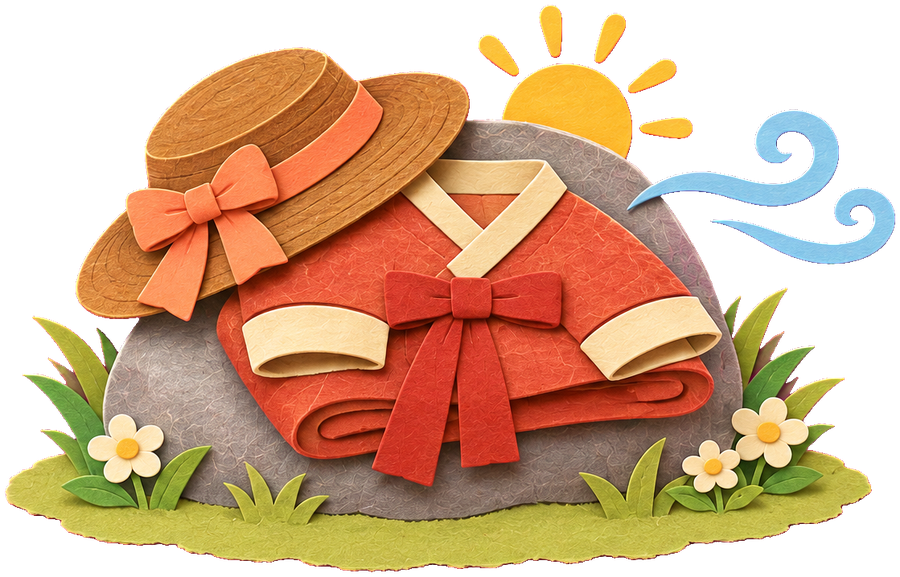
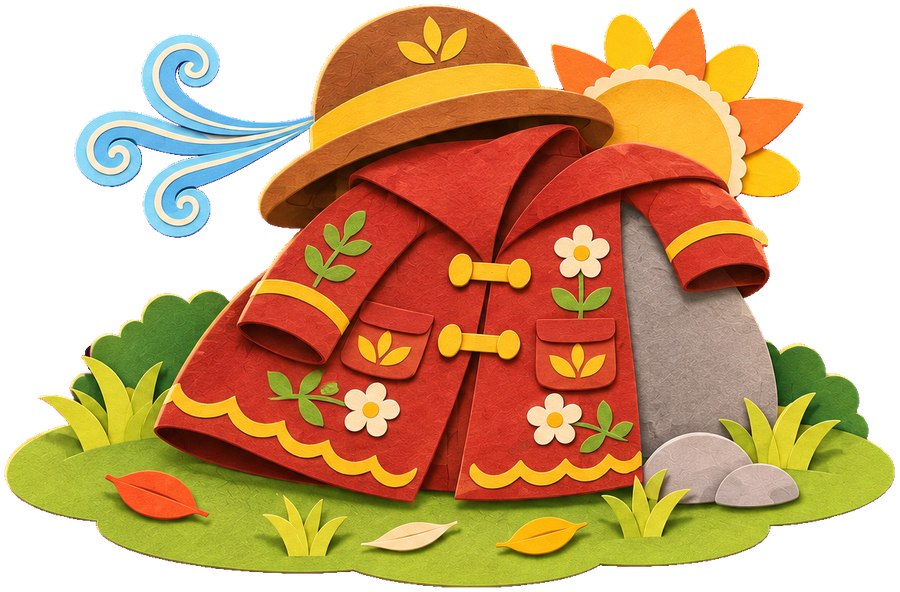
covers round 3: quicker ending fold, the cast back on screen for the curtain call, sunmoon back cover + sun_wind spot redrawn
- The ending re-times the fold (outside-in within 1.7 s, page turn once all is flat); the curtain shot eases in
  during the hold; sun_wind's traveller walks back for his bow.
- sunmoon back cover: sun / moon with the children's faces over the dusk cottage, nobody in the field; sun_wind
  title-page spot with the traveller's real coat.
- --end-choice=replay|other records the end tabs; the shelf stays when a story sends the reader there.

Claude-Session: https://claude.ai/code/session_01BY9NwcYaGBVoJkDe4jJ2J6

diff --git a/tools/art/cover_jobs.py b/tools/art/cover_jobs.py
@@ -221,6 +221,25 @@ ROLL = [
 ]
 JOBS += ROLL
 
+# ---- round 4 (coordinator review): the sun and moon WITH the children's faces over the cottage (the kids became
+# them; nobody sits in the field), and the sun_wind vignette's coat matching the traveller's real coat
+JOBS += [
+    back("back_sm_art_v2", "cover_sm_art.png", "Quiet dusk after the story: high in the sky on the left a golden paper "
+         "SUN whose face is the little SISTER's face (reference 2: her face and pigtail buns inside the sun's rays) and "
+         "on the right a pale cream paper MOON whose face is the BROTHER's face (reference 3: his bowl-cut face inside "
+         "the moon), both smiling gently down. Below them the little thatched cottage from the front cover, peaceful, "
+         "no smoke, no people; in front of it a field of tall red-brown SORGHUM stalks (one stalk bent). NO children, "
+         "NO people, NO tiger anywhere on the ground. Soft blue-indigo dusk sky with a few first stars.",
+         [RF + "ref_sm_sun_girl.png", RF + "ref_sm_moon_boy.png"]),
+    {"id": "spot_sw_v2", "kind": "bg", "aspect": "square if possible, but ANY size the tool returns is fine; save it as-is",
+     "out": RAW + "spot_sw_v2.png", "refs": [RAW + "cover_sw_art_paper.png", MAT_REF],
+     "prompt": SPOT + "SUBJECT: the TRAVELLER's own long RUST-RED COAT from the first reference (deep rust-red with "
+     "cream flower trims, mustard toggle buttons, a cream hem band) folded over a round grey rock in the grass, his "
+     "BROWN STRAW HAT with a mustard band and a little leaf motif lying on top (exactly as in the first reference), a "
+     "small golden paper sun peeking over the rock and a curly pale-blue paper wind swirl beside it. The coat is a "
+     "European-style long coat, NOT a Korean hanbok jacket, NOT pink. Do not draw the boy."},
+]
+
 
 if __name__ == "__main__":
     out = os.path.join(HERE, "cover_jobs.json")

diff --git a/artifacts/game-progress.md b/artifacts/game-progress.md
@@ -1863,3 +1863,37 @@ Deliver: Vite build + run instructions, 30 s gameplay capture, final side-by-sid
   - Regression (no movie, --fixed-fps 30): sun_wind 219.7 s, three_pigs 310.4 s, witch_candy 447.6 s, sunmoon 396.8 s —
     STORY_DONE missing_audio=[] missing_sound=[], CHECK_LINES OK for all four (VOICE_DUP high only in these
     faster-than-realtime runs, as in phase 1).
+
+## 2026-11-22 — camera: no jerky viewpoint jumps (user: "모든 동화 마찬가진데 시점이 뚝뚝 끊기는거 별로에요. 사탕마녀도 그렇고 썬문도 그러네")
+  - Measured first: StoryRunner camera check — per frame, the stage camera's view motion (turn + shift seen from the
+    focus distance + half the fov change); `CAM_JUMP` = a frame moving > 3°, `CAM_JERK` = a one-frame velocity change
+    > 20°/s; page turns / cover / other cameras / shakes not counted; summary `CAM_JUMP=<n> CAM_JERK=<n>`.
+  - Before (movie runs, artifacts/camera/before/*.log): sun_wind 5/6, three_pigs 19/23, witch_candy 40/30, sunmoon 32/19.
+  - Causes: every shot parameter and the focus chased its goal exponentially (full speed on the first frame, a new
+    shot changed the speed at once); cam `from` snapped the rig mid-page (the opening cranes cut after the page had
+    opened — sunmoon's sky a 160° cut, witch_candy / sunmoon establishing 28–42°); witch_candy handler rates 4–9
+    (jar / pot / face whips 6–19° per frame); the fold's pull to wide at every page change; three_pigs' deliberate
+    wolf cut; inside → outside pulls.
+  - Fix (SpreadStage): two critically damped springs in series per parameter + focus (ease in / out, velocity carried
+    into the next move, yaw the short way); move length from how far the view travels (0.8–2.5 s, far traverses to
+    4.2 s, slow rates to 6 s, a quick rate shortens at most 15 %, a mid-move shot never hurries the glide under way);
+    the focus tightens to a 0.35 s follow once a move lands. `from` is applied under the page turn (preset_open) and
+    otherwise ignored; `cut: true` for an explicit hard cut. Runner: tap framing waits for the camera to land; a
+    line right after a quick cam waits until 40 % of the move.
+  - Tales: three_pigs wolf entrance = crane up at the brick lot, across high, down low on the wolf (no cut);
+    witch_candy jar → Dahyun's face goes via the shelf (the straight glide passed through her card) and her "으엑!"
+    waits for her face.
+
+## 2026-11-22 — covers round 3 (coordinator review)
+  - sunmoon back cover redrawn: the sun with the sister's face and the moon with the brother's face over the quiet
+    cottage at dusk, sorghum below, nobody on the ground. sun_wind title-page spot redrawn with the traveller's own
+    rust-red coat and brown straw hat (it read as a pink hanbok jacket).
+  - Ending fold re-timed in the runner (wave <= 1.7 s + ~0.6 s per piece, page turn as soon as all is flat); the curtain
+    shot moves in during the hold (witch_candy room at in_focus, three_pigs medium at b_focus); sun_wind's traveller
+    walks back up the road to a mark for his bow.
+  - Recorded the end tabs with --end-choice=: "다시 보기" (three_pigs: the book turns face up, cover prompt, opens, the
+    tale restarts) and "다른 동화" (sun_wind -> the bookshelf -> three_pigs picked).
+  - Regression (no movie): sun_wind 225.7 s, three_pigs 314.2 s, witch_candy 468.7 s, sunmoon 410.4 s - STORY_DONE
+    missing_audio=[] missing_sound=[], CHECK_LINES OK x4.
+  - Slip: shelf.gd briefly used PackedStringArray.filter (a parse error in the main scene, so runs without a scene
+    failed for a few minutes); fixed with Array(args).filter.

diff --git a/game/story/COVER_PLAN.md b/game/story/COVER_PLAN.md
@@ -104,6 +104,12 @@ Per tale (`ui.curtain.who`, back cover subject):
   at night, everyone in costume eating candy on the steps, the ghost peeking.
 - 해님 달님: the sun and the moon swing in the sky (the children became them); back cover — sun and moon over the
   quiet cottage, the sorghum field below.
+Round 3 (coordinator): the fold is re-timed in the ending (story_runner._quick_fold: every visible hinge starts within
+1.7 s, outside-in; the page turns as soon as everything is flat, ~2-3 s in all; spread_stage's camera code untouched);
+the curtain shot (cover.json curtain.shot/at) is set at the start of the hold, so a tale that pulled back to a wide
+comes back to its cast; a walker who left the page (sun_wind's traveller, curtain entry ["walker", pose, walk_away
+dist]) re-enters from up the road onto a mark before the bow. `--end-choice=replay|other` presses an end tab after
+STORY_DONE in autoplay (recordings of the replay and shelf paths).
 Not done: the cast does not walk to new marks for the bow (they gesture where the story left them); no recorded word
 on a curtain-call tap (no fitting short clips checked).
 
